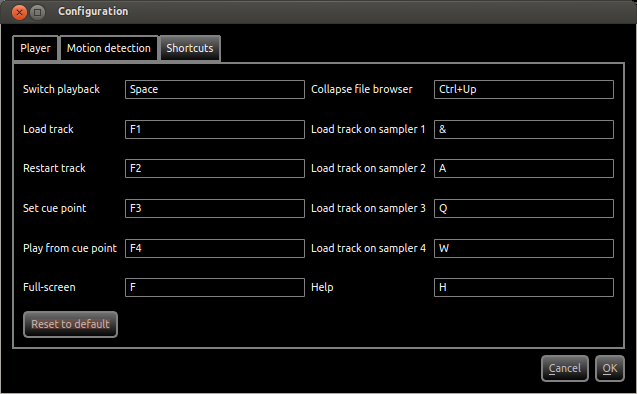
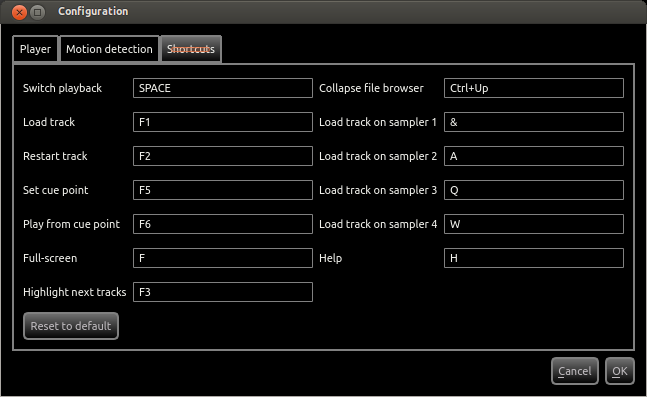
Updated on-line doc for v1.3.0

diff --git a/development.html b/development.html
@@ -70,25 +70,26 @@
             <strong>libdigitalscratch</strong> (motion detection) is based on: 
             <ul>
               <li>
-                <a href="http://qt-project.org">Qt 4.x</a>
+                <a href="http://qt-project.org">Qt 5.x</a>
               </li>
             </ul>
           </p>
           <p>
             <strong>digitalscratch</strong> (audio player) is based on: 
             <ul>
-              <li><a href="http://qt-project.org">Qt 4.x</a></li>
+              <li><a href="http://qt-project.org">Qt 5.x</a></li>
               <li><a href="http://www.mpg123.de">mpg123</a></li>
               <li><a href="http://flac.sourceforge.net">FLAC</a></li>
               <li><a href="http://www.mega-nerd.com/SRC/">Sample rate library</a></li>
               <li><a href="http://jackaudio.org/">JACK</a></li>
+              <li><a href="http://www.ibrahimshaath.co.uk/keyfinder/">KeyFinder</a></li>
             </ul>
           </p>
         </div>
       </div>
       <h2>Software components</h2>
-          <p>The core motion detection is done by an SDK built as a shared library (libdigitalscratch). It can be integrated with various kind of controllable software player.</p>
-          <p>Digital-Scratch also provides a player (digitalscratch) which uses the library. This player is able to play one or two tracks. The playback parameters (speed and direction) could be changed in real time. It also provides a simplistic file explorer used to select tracks to play.</p>
+          <p>The core motion detection is done by an SDK built as a shared library (<em>libdigitalscratch</em>). It can be integrated with various kind of controllable software player.</p>
+          <p>Digital-Scratch also provides a player (<em>digitalscratch</em>) which uses the library. This player is able to play one or two tracks. The playback parameters (speed and direction) could be changed in real time. It also provides a simplistic file explorer used to select tracks to play.</p>
       <div class="row">
 	    <div class="span6">
 		  <h2>Reports, discussions, slides</h2>

diff --git a/demo.html b/demo.html
@@ -84,7 +84,7 @@
       </div>
       <div class="row">
         <div class="span8">
-          <h2>Screenshots - Digital-Scratch 1.2.0</h2>
+          <h2>Screenshots - Digital-Scratch 1.3.0</h2>
           <p>This is the main window composed by: 
             <ul>
               <li>2 players (deck1/deck2) which can play tracks of max 15 min, waveform can be clicked to jump in tracks, a cue point can be set</li>
@@ -92,6 +92,9 @@
               <li>a file explorer, root directory has to be defined in configuration dialog</li>
               <li>help for keyboard shortcuts, could be defined in configuration file</li>
             </ul>
+            <p>
+              Highlighting in file explorer is used to show which files are musically compatible with the current one. This is called <a href="http://en.wikipedia.org/wiki/Harmonic_mixing">Harmonic mixing</a>.
+            </p>
             <p>
               <a href="screenshots/screenshot-main.png" class="light"><img src="screenshots/screenshot-main-small.png" alt="Digital Scratch 1.1.0 - Main window" /></a>
             </p>

diff --git a/index.html b/index.html
@@ -62,7 +62,7 @@
         <div class="span4">
           <h2>How does it work ?</h2>
           <p>Digital-Scratch is a software that analyzes motions (rotation speed and direction) of a vinyl disc played by a turntable.</p>
-          <p>It also provide a nice and simple player that plays your favorite tracks allowing you to mix as you would do it with regular records.</p>
+          <p>It also provides a nice and simple player that play your favorite tracks allowing you to mix as you would do it with regular records.</p>
           <p>Select a tune on the player and start your turntable. That's all, you are ready to mix!</p>
           <p><a class="btn" href="demo.html">Demo & screeshots &#187;</a></p>
         </div>

diff --git a/overview.html b/overview.html
@@ -75,10 +75,12 @@
           <p>
             <ul>
               <li>Speed and direction detection.</li>
+              <li>Cue points management.</li>
               <li><a href="http://en.wikipedia.org/wiki/MP3">Mp3</a> and <a href="http://en.wikipedia.org/wiki/Flac">Flac</a> files player.</li>
               <li><a href="http://jackaudio.org/">JACK</a> sound server integration.</li>
               <li>Sample player.</li>
               <li>File browser.</li>
+              <li>Music key detection.</li>
             </ul>
           </p>
           <h2>Supported OS</h2>
